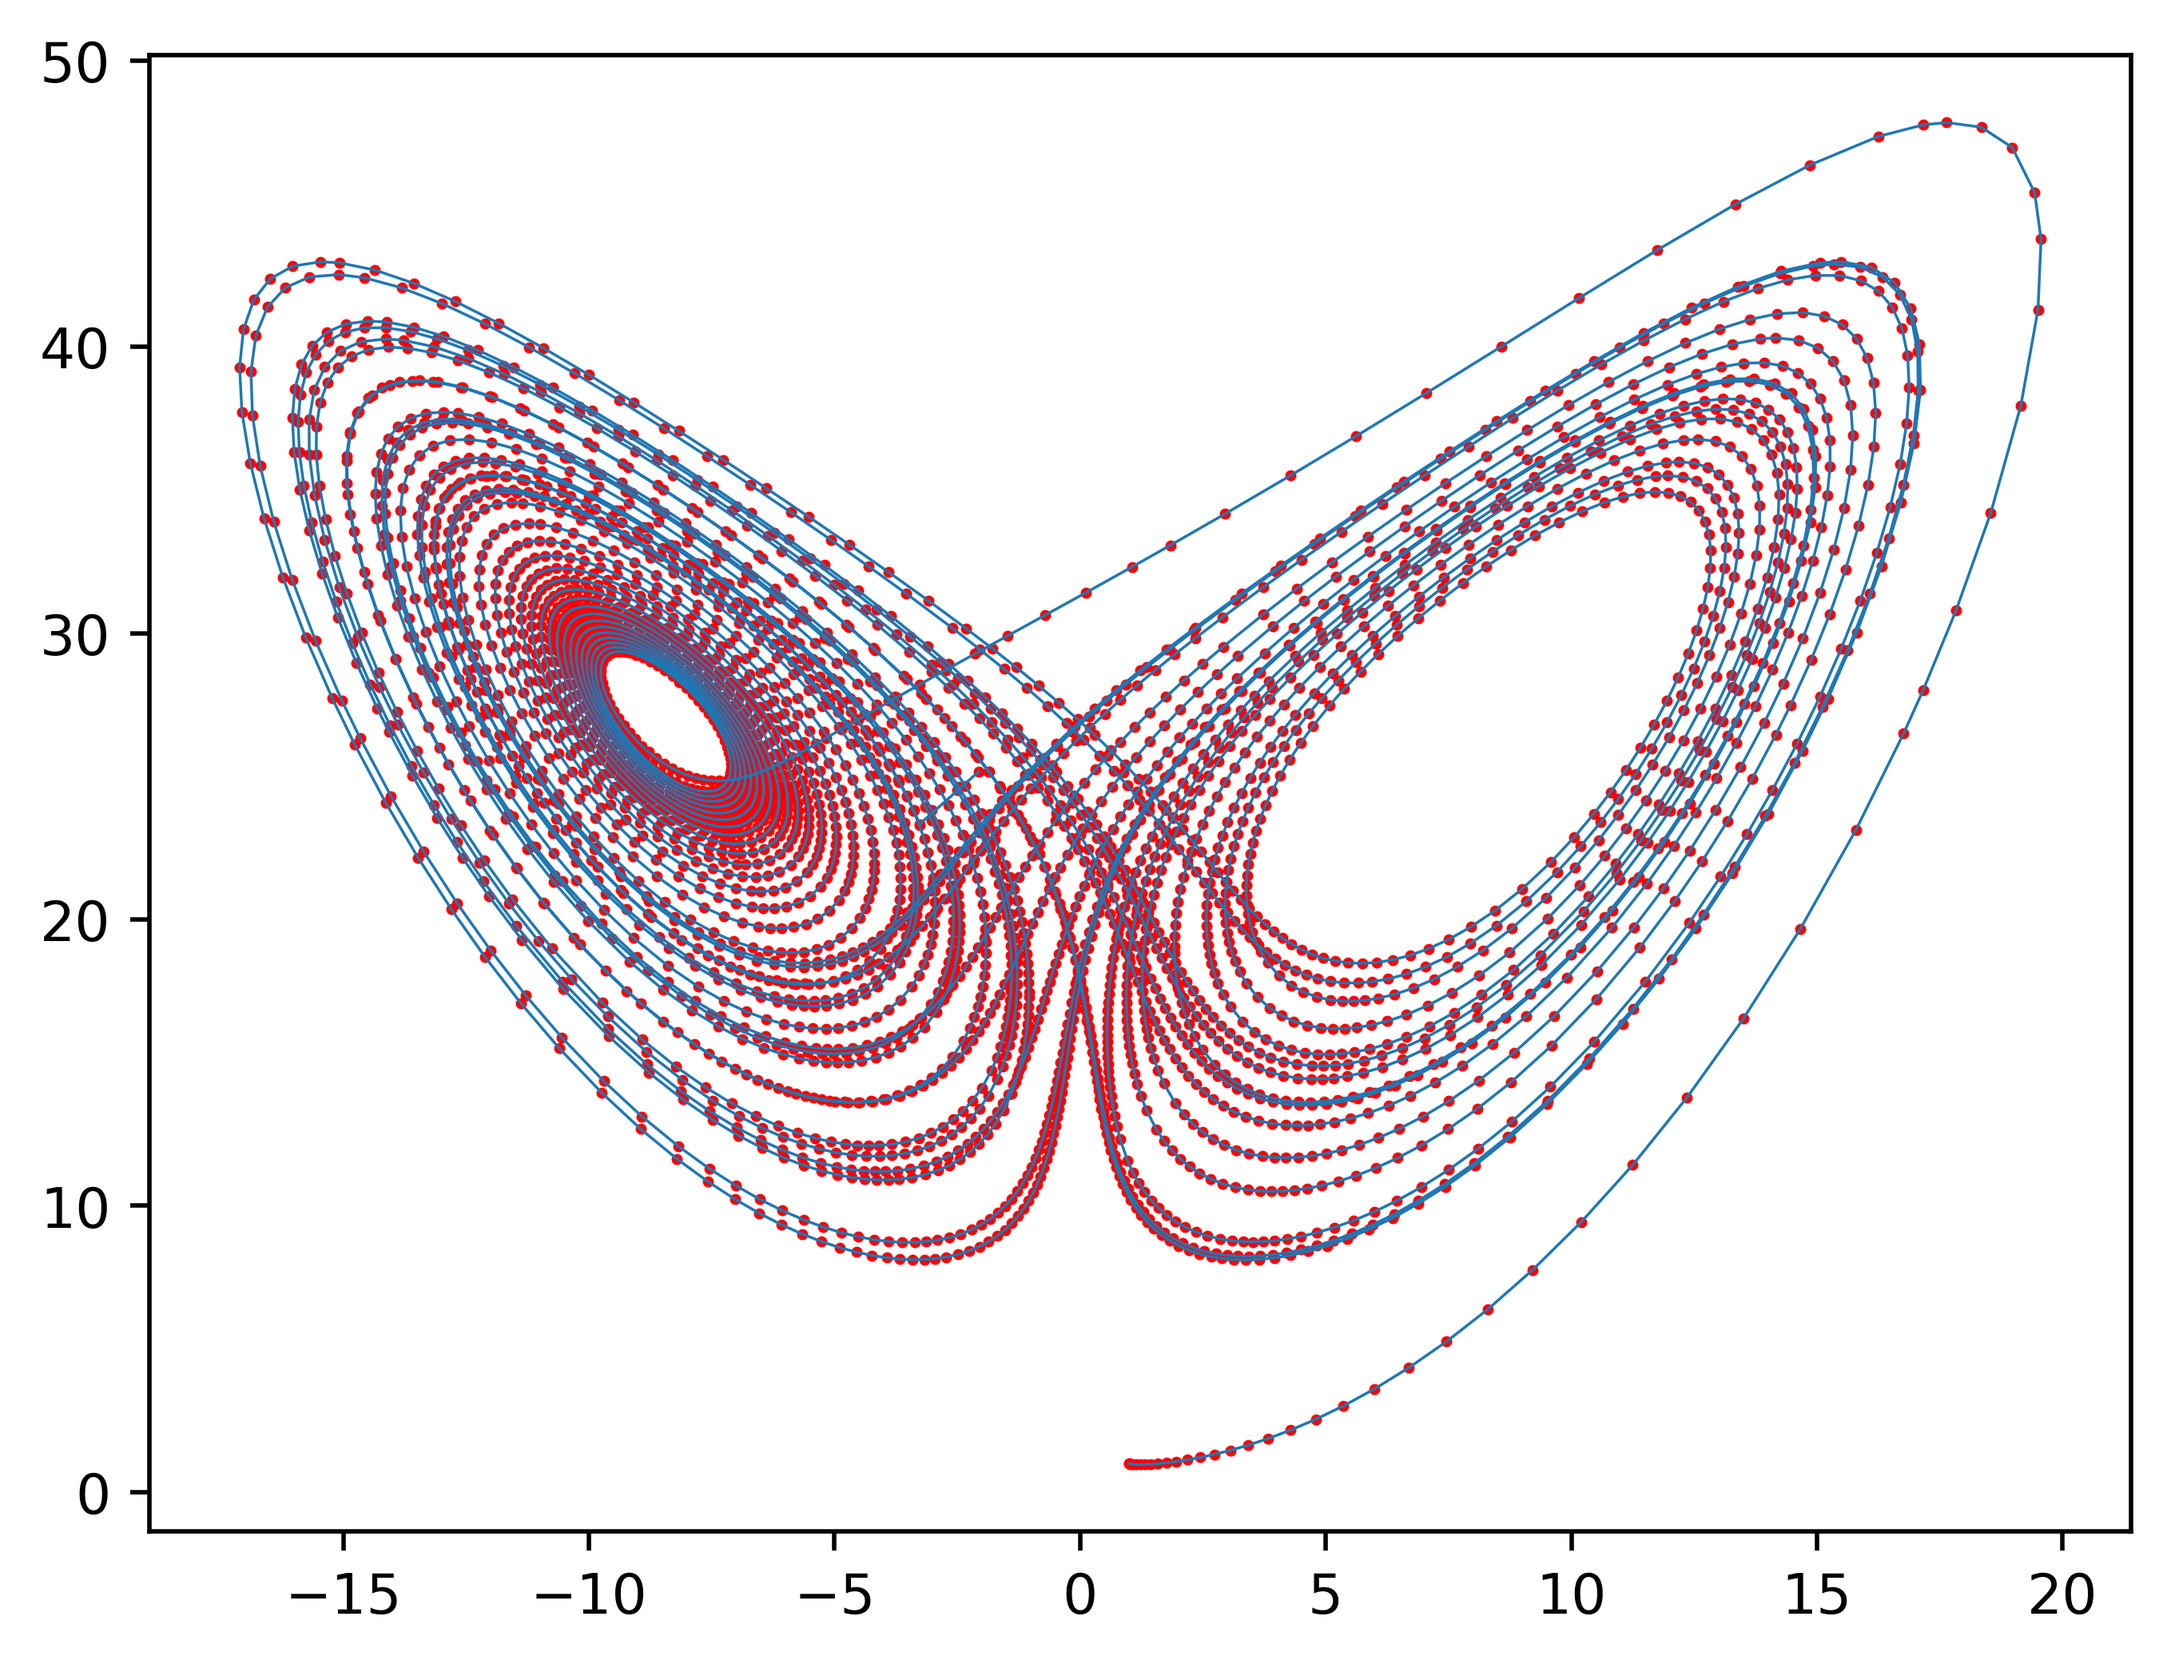
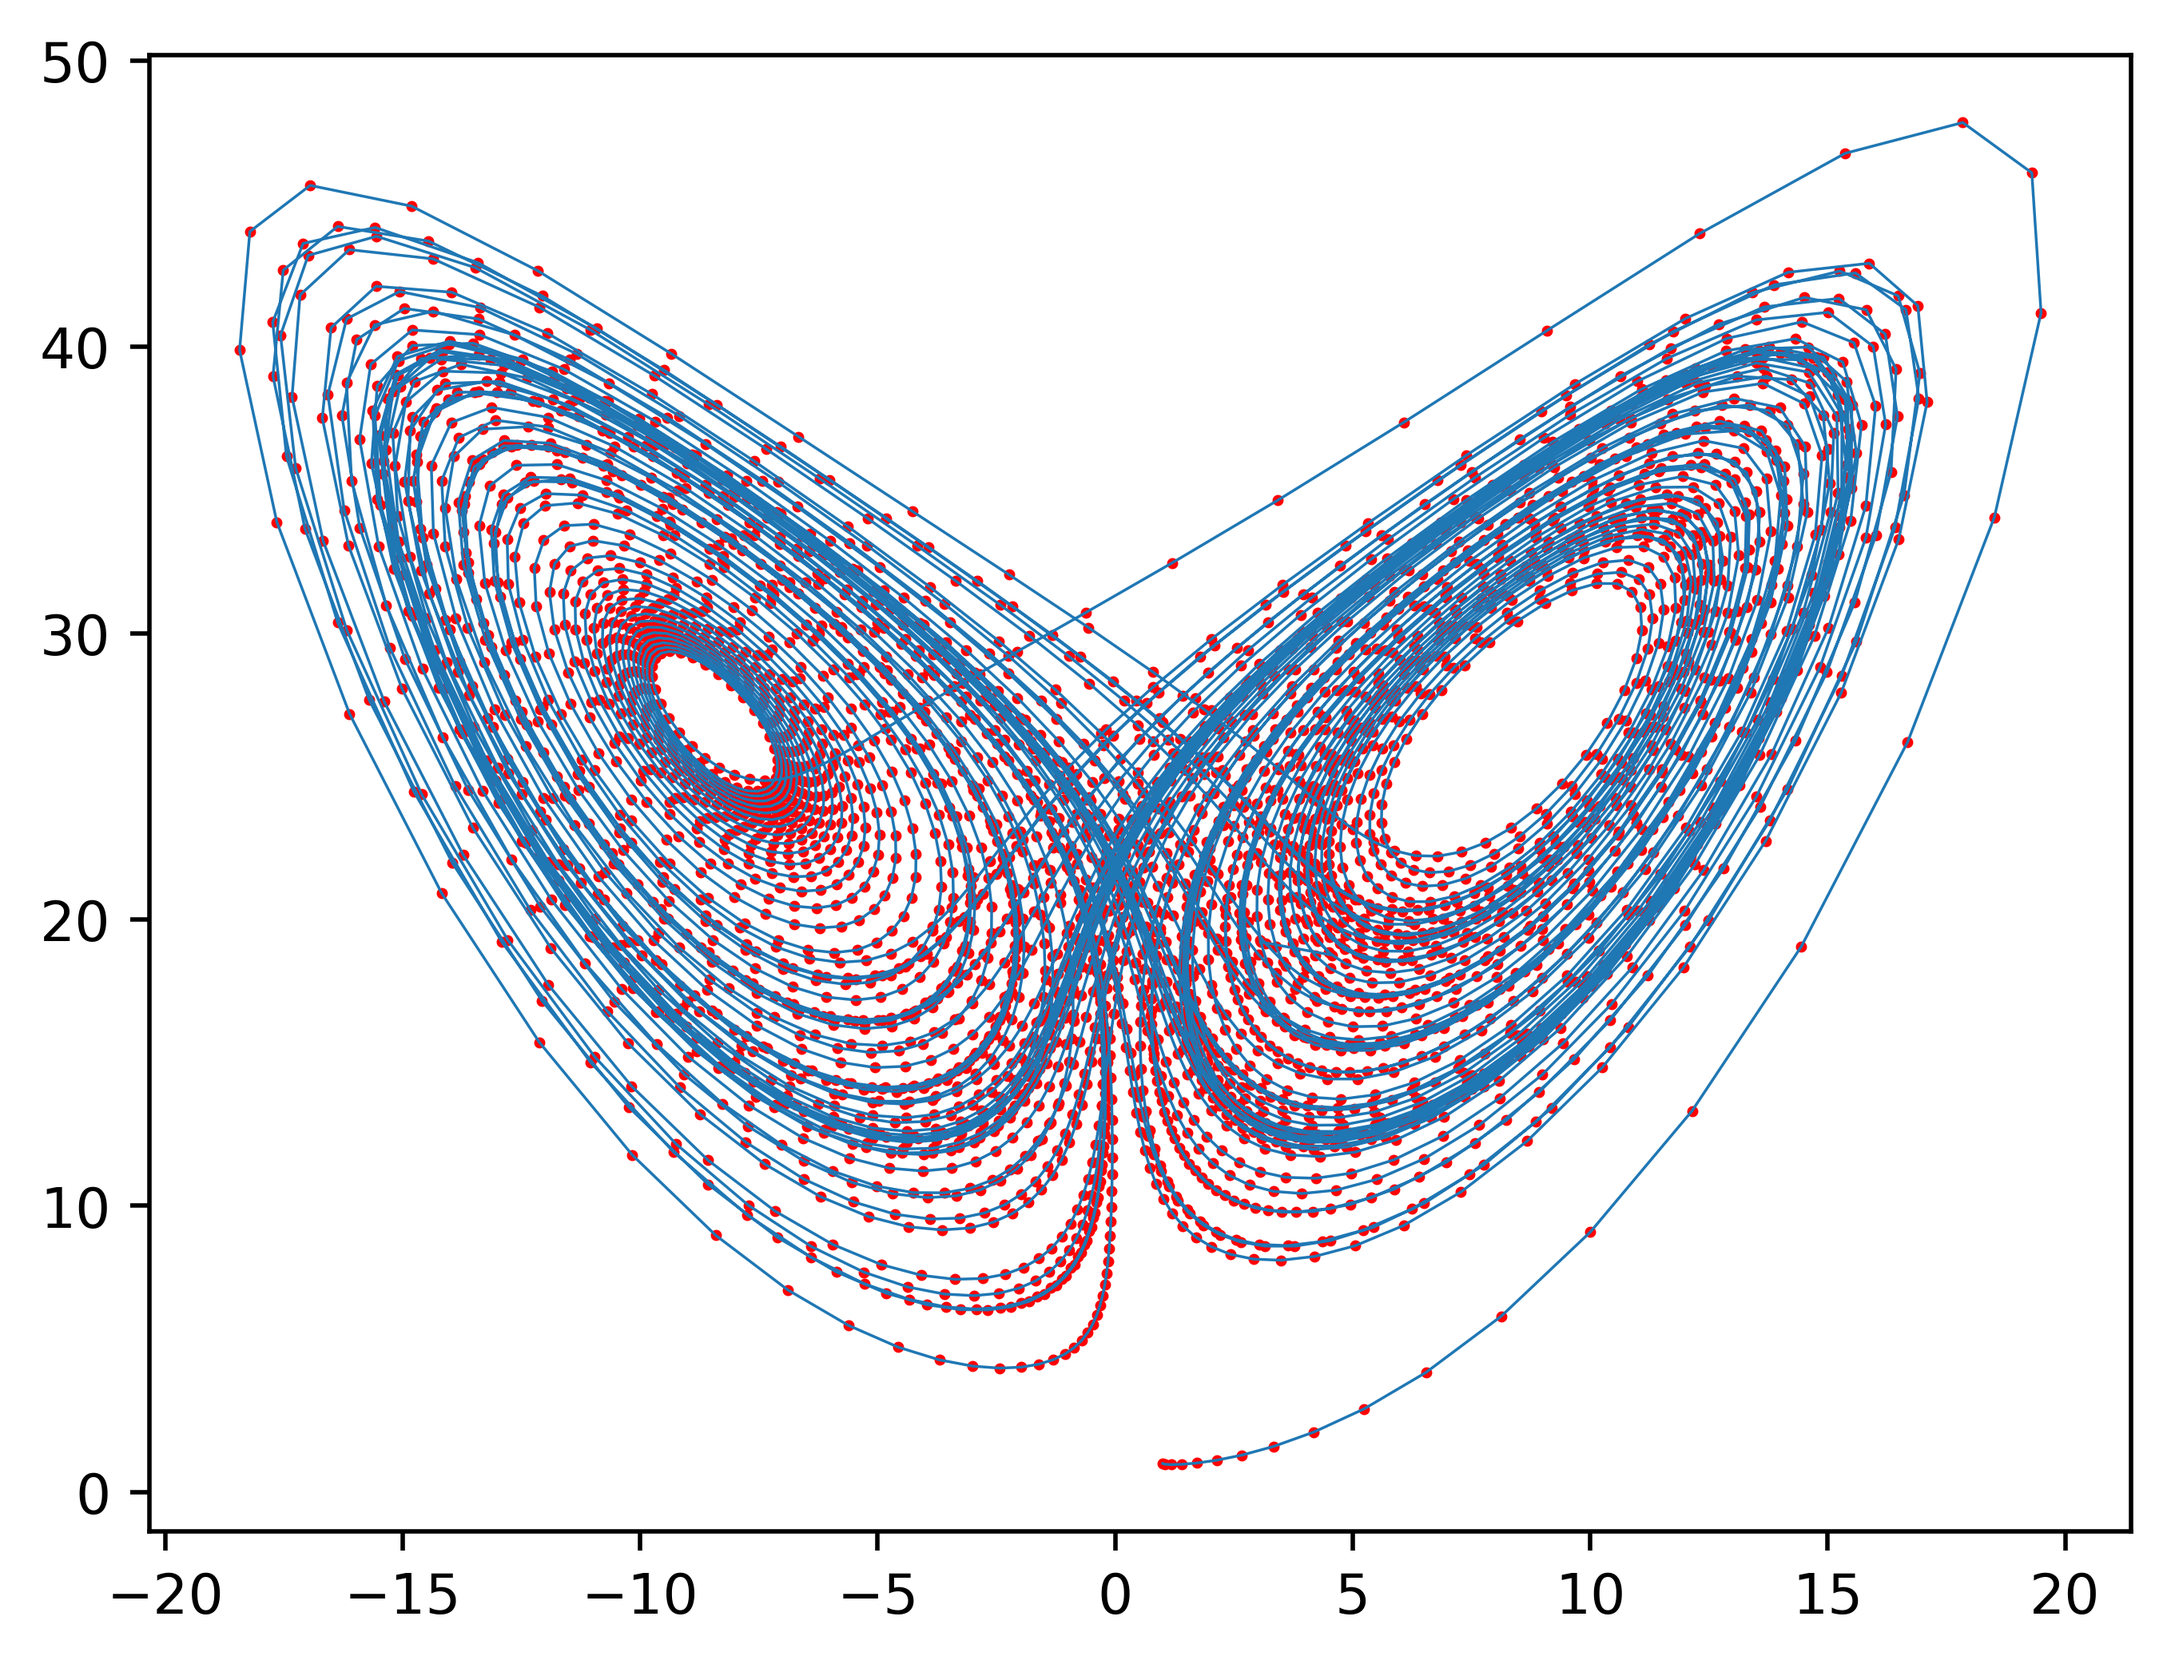
25 January - 2025

diff --git a/cooling29June2024/cooling_ODE_Reloaded/rk_Test/prog1.py b/cooling29June2024/cooling_ODE_Reloaded/rk_Test/prog1.py
@@ -4,6 +4,14 @@ import matplotlib.pyplot as plt
 import time
 
 
+#----- sign
+def sign(a, b):
+  if b >= 0:
+    return a if a >= 0 else -a
+  else:
+    return -a if a >= 0 else a
+
+
 #===== rkck
 def rkck(y, dydx, x, h):
   a2, a3, a4, a5, a6 = 0.2, 0.3, 0.6, 1.0, 0.875
@@ -89,7 +97,7 @@ def rkqs(y, dydx, x, htry, yscal):
     if xnew == x:  # Stepsize underflow ---> This is used to alert us if h = 0.0 !
       raise ValueError("Stepsize underflow in rkqs")
 
-  # When we exit the WHILE loop, we have the "y" which is evolved for one step h with the best h (i.e. with a h that gives errmax <= 1.0)!
+  # When we exit the WHILE loop, we have the "y" (ytemp) which is evolved for one step h with the best h (i.e. with a h that gives errmax <= 1.0)!
   if errmax > ERRCON:
     hnext = SAFETY * h * errmax ** PGROW
   else:
@@ -120,7 +128,8 @@ def odeint(ystart, x1, x2, h1):
 
   x = x1
 
-  h = np.sign(h1) * (x2 - x1)
+  #h = np.sign(h1) * (x2 - x1) # This is wrong. I made a worng conversion from C++ to python !
+  h = sign(h1, x2 - x1)
 
   nok = nbad = 0
 
@@ -142,7 +151,7 @@ def odeint(ystart, x1, x2, h1):
         xsav = x
       kount += 1
 
-    if (x+h-x2)*(x+h-x1) > 0.0:
+    if (x+h-x2)*(x+h-x1) > 0.0: # To adjust h if x+h exceed the upper limit value, x2 !
       h = x2 - x
 
     x, y, hdid, hnext = rkqs(y, dydx, x, h, yscal)
@@ -191,7 +200,7 @@ dxsav = 0.001 #!!!!!!!!!!!!!!!!!!!!!!!!!! To be adjusted for each problem !!!!!!
 # Note that here x1 and x2 represent time !
 x1 = 0.0 # Initial time !!!!!!!!!!!!!!!!!!!!!!!
 x2 = 1.0 # Final time !!!!!!!!!!!!!!!!!!!!!!!!!
-h1 = 0.001 # Step size !!!!!!!!!!!!!!!!!!!!!!!!
+h1 = 0.1 # Step size !!!!!!!!!!!!!!!!!!!!!!!!
 ystart = np.array([1.0, 1.0, 1.0]) # Initial condition
 
 nvar = len(ystart)
@@ -199,7 +208,7 @@ nvar = len(ystart)
 xp = np.zeros(kmax)         # Will contain data for later tests and checks!
 yp = np.zeros((nvar, kmax)) # Will contain data for later tests and checks!
 
-eps = 1e-9   # THIS affects the execution time !!!!!!!!!!!!!!!!!!!!!!!!!!!!!!!!!!!!!!!!!
+eps = 1e-7   # THIS affects the execution time !!!!!!!!!!!!!!!!!!!!!!!!!!!!!!!!!!!!!!!!!
 hmin = 1e-5  #!!!!!!!!!!!!!!!!!!!!!!!!!! To be adjusted for each problem !!!!!!!!!!!!!!!!!!!!!!!!!!
 
 TA = time.time()

diff --git a/cooling29June2024/cooling_ODE_Reloaded/rk_Test/Working_Lorenz_Butterfly/prog1x.py b/cooling29June2024/cooling_ODE_Reloaded/rk_Test/Working_Lorenz_Butterfly/prog1x.py
@@ -4,6 +4,13 @@ import matplotlib.pyplot as plt
 import time
 
 
+#----- sign
+def sign(a, b):
+  if b >= 0:
+    return a if a >= 0 else -a
+  else:
+    return -a if a >= 0 else a
+
 #===== rkck
 def rkck(y, dydx, x, h):
     a2, a3, a4, a5, a6 = 0.2, 0.3, 0.6, 1.0, 0.875
@@ -107,8 +114,8 @@ def rkqs(y, dydx, x, htry, yscal):
 #===== odeint
 def odeint(ystart, x1, x2, h1):
 
-  MAXSTP=20000
-  TINY=1.0e-30
+  MAXSTP = 50000
+  TINY = 1.0e-30
 
   kount = 0
 
@@ -120,7 +127,9 @@ def odeint(ystart, x1, x2, h1):
 
   x = x1
 
-  h = np.sign(h1) * (x2 - x1)
+  #h = np.sign(h1) * (x2 - x1) # This is wrong. I made a worng conversion from C++ to python !
+  h = sign(h1, x2 - x1)
+  print('h, h1, x2-x1 = ', h, h1, x2-x1)
 
   nok = nbad = 0
 
@@ -190,7 +199,7 @@ dxsav = 0.001 #!!!!!!!!!!!!!!!!!!!!!!!!!! To be adjusted for each problem !!!!!!
 # Note that here x1 and x2 represent time !
 x1 = 0.0 # Initial time !!!!!!!!!!!!!!!!!!!!!!!
 x2 = 100.0 # Final time !!!!!!!!!!!!!!!!!!!!!!!!!
-h1 = 0.001 # Step size !!!!!!!!!!!!!!!!!!!!!!!!
+h1 = 0.02 # Step size !!!!!!!!!!!!!!!!!!!!!!!!
 ystart = np.array([1.0, 1.0, 1.0]) # Initial condition
 
 nvar = len(ystart)
@@ -198,7 +207,7 @@ nvar = len(ystart)
 xp = np.zeros(kmax)         # Will contain data for later tests and checks!
 yp = np.zeros((nvar, kmax)) # Will contain data for later tests and checks!
 
-eps = 1e-10   # THIS affects the execution time !!!!!!!!!!!!!!!!!!!!!!!!!!!!!!!!!!!!!!!!!
+eps = 1e-5   # THIS affects the execution time !!!!!!!!!!!!!!!!!!!!!!!!!!!!!!!!!!!!!!!!!
 hmin = 1e-5  #!!!!!!!!!!!!!!!!!!!!!!!!!! To be adjusted for each problem !!!!!!!!!!!!!!!!!!!!!!!!!!
 
 TA = time.time()

diff --git a/cooling29June2024/cooling_ODE_Reloaded/rk_Test/archive/odeintZZ.py b/cooling29June2024/cooling_ODE_Reloaded/rk_Test/archive/odeintZZ.py
@@ -1,4 +1,11 @@
 
+#----- sign
+def sign(a, b):
+  if b >= 0:
+    return a if a >= 0 else -a
+  else:
+    return -a if a >= 0 else a
+
 
 #===== odeint
 def odeint(ystart, x1, x2, h1):
@@ -16,7 +23,8 @@ def odeint(ystart, x1, x2, h1):
 
   x = x1
 
-  h = np.sign(h1) * (x2 - x1)
+  #h = np.sign(h1) * (x2 - x1) # This is wrong. I made a worng conversion from C++ to python !
+  h = sign(h1, x2 - x1)
 
   nok = nbad = 0
 
